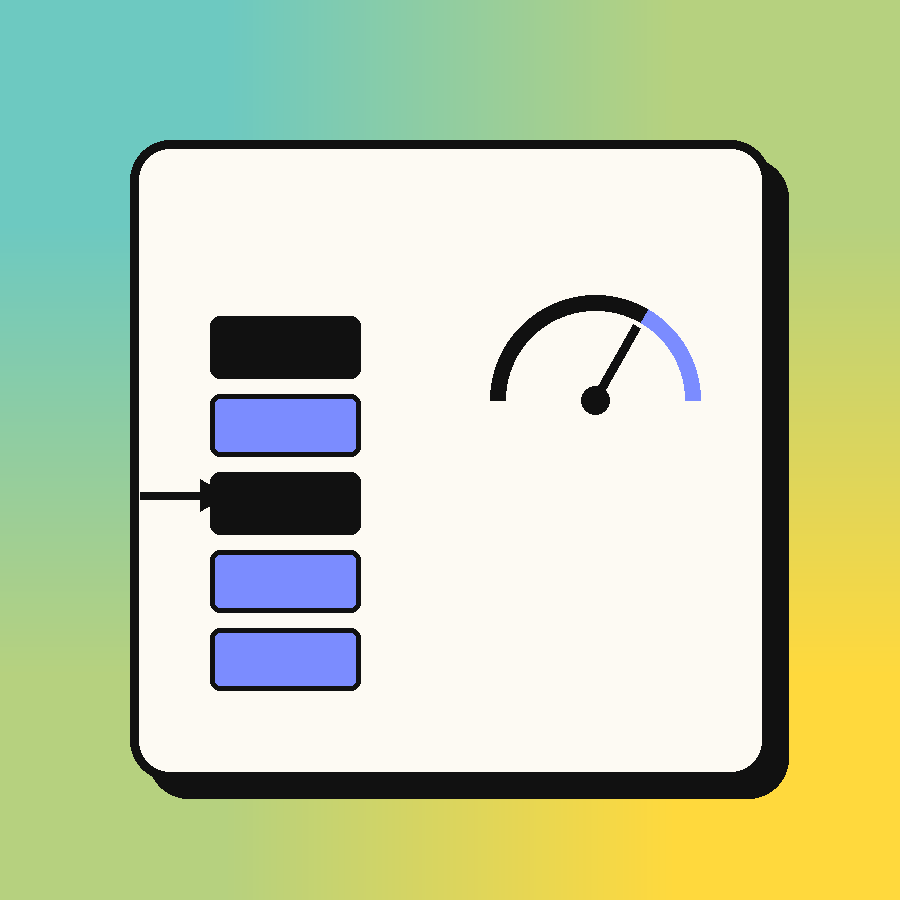
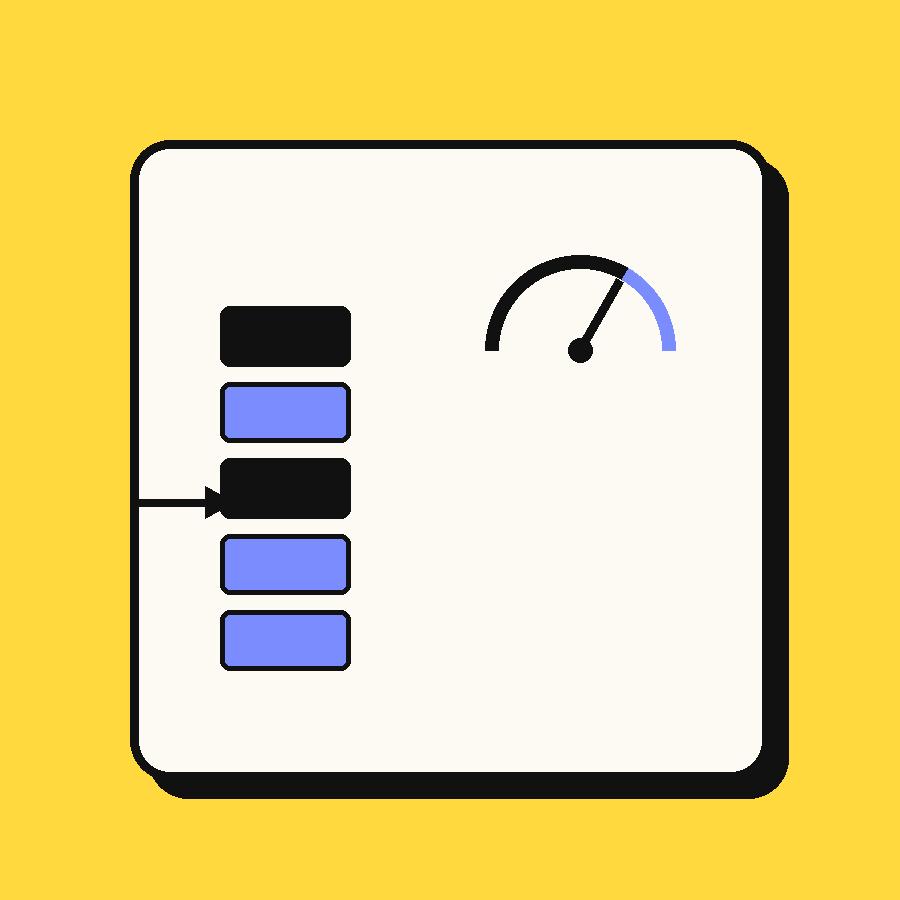
Update thumbnails

diff --git a/styles.css b/styles.css
@@ -511,12 +511,12 @@ section:last-child { border-bottom: none; }
   transform: scale(1.05);
 }
 
-.project-card-thumb.t1 { background: linear-gradient(135deg, var(--pop-3), var(--pop-1)); }
+.project-card-thumb.t1 { background: var(--pop-3); }
 .project-card-thumb.t2 { background: linear-gradient(135deg, var(--pop-2), #ff5ea8); }
 .project-card-thumb.t3 { background: linear-gradient(135deg, var(--pop-1), var(--pop-2)); }
-.project-card-thumb.t4 { background: linear-gradient(135deg, #7b8cff, var(--pop-3)); }
-.project-card-thumb.t5 { background: linear-gradient(135deg, var(--pop-2), #7b8cff); }
-.project-card-thumb.t6 { background: linear-gradient(135deg, var(--pop-3), var(--pop-2)); }
+.project-card-thumb.t4 { background: #7b8cff; }
+.project-card-thumb.t5 { background: var(--pop-2); }
+.project-card-thumb.t6 { background: var(--pop-1); }
 
 .project-card-status {
   position: absolute;
